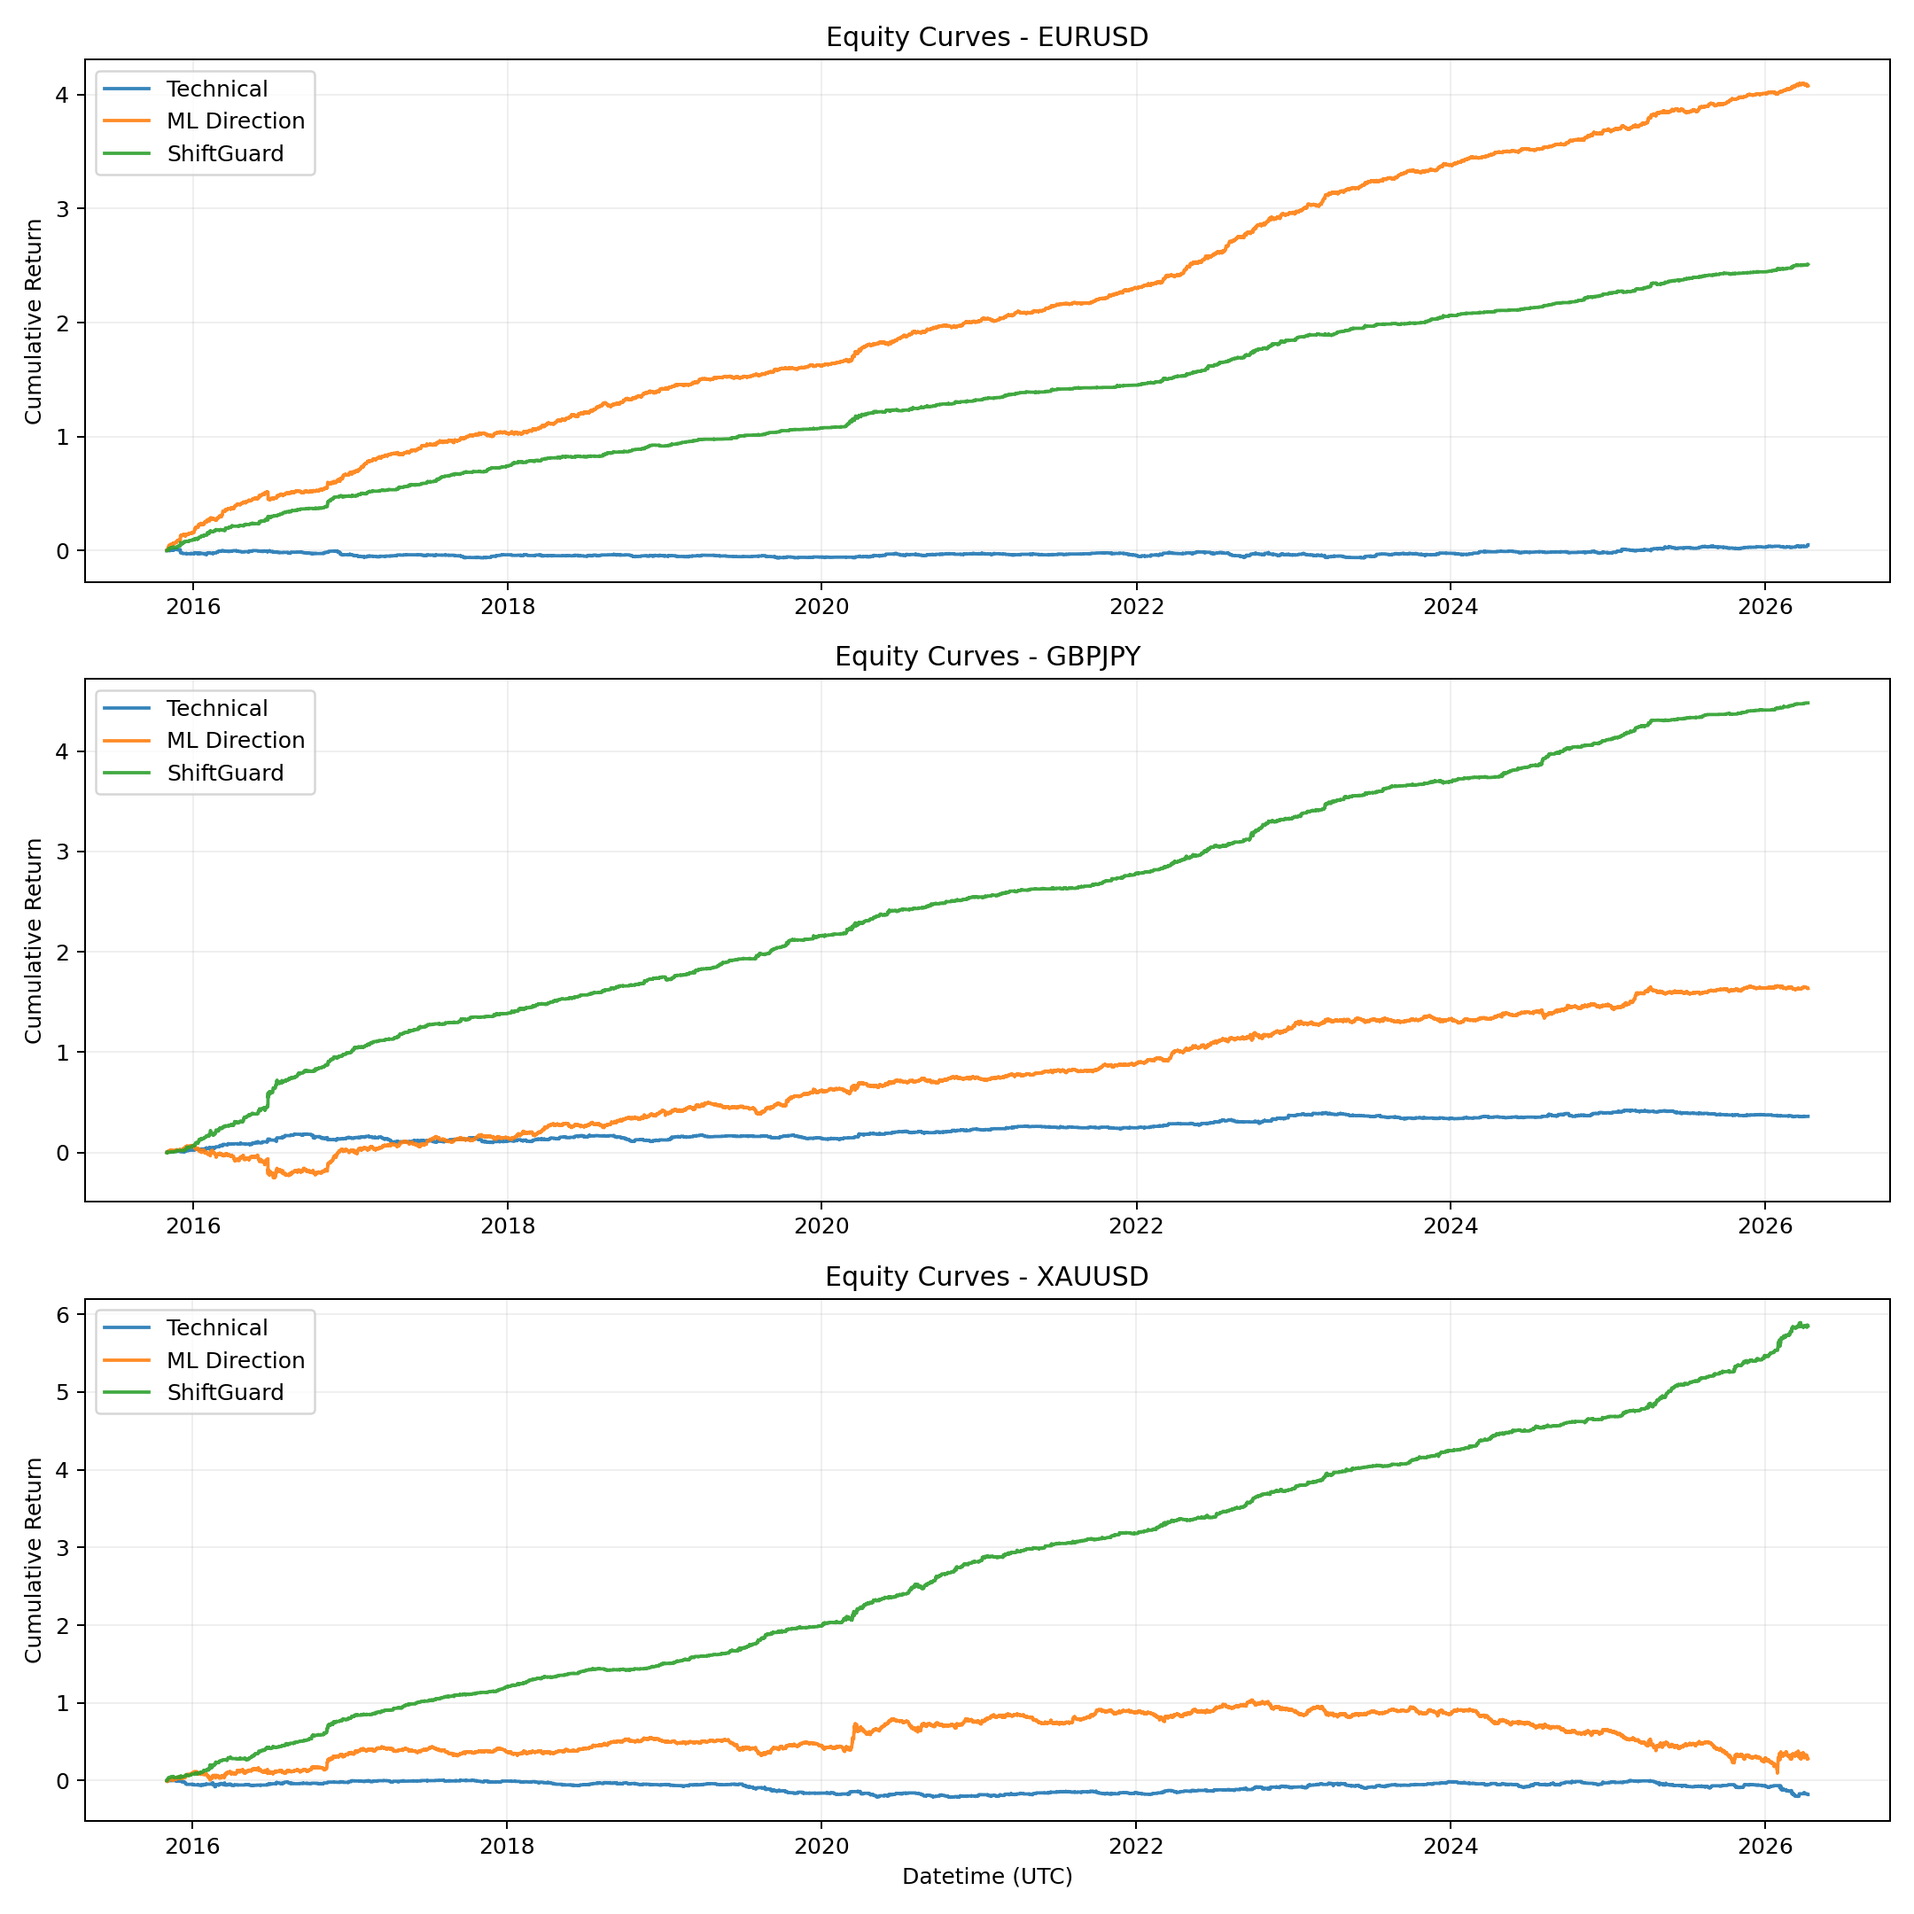
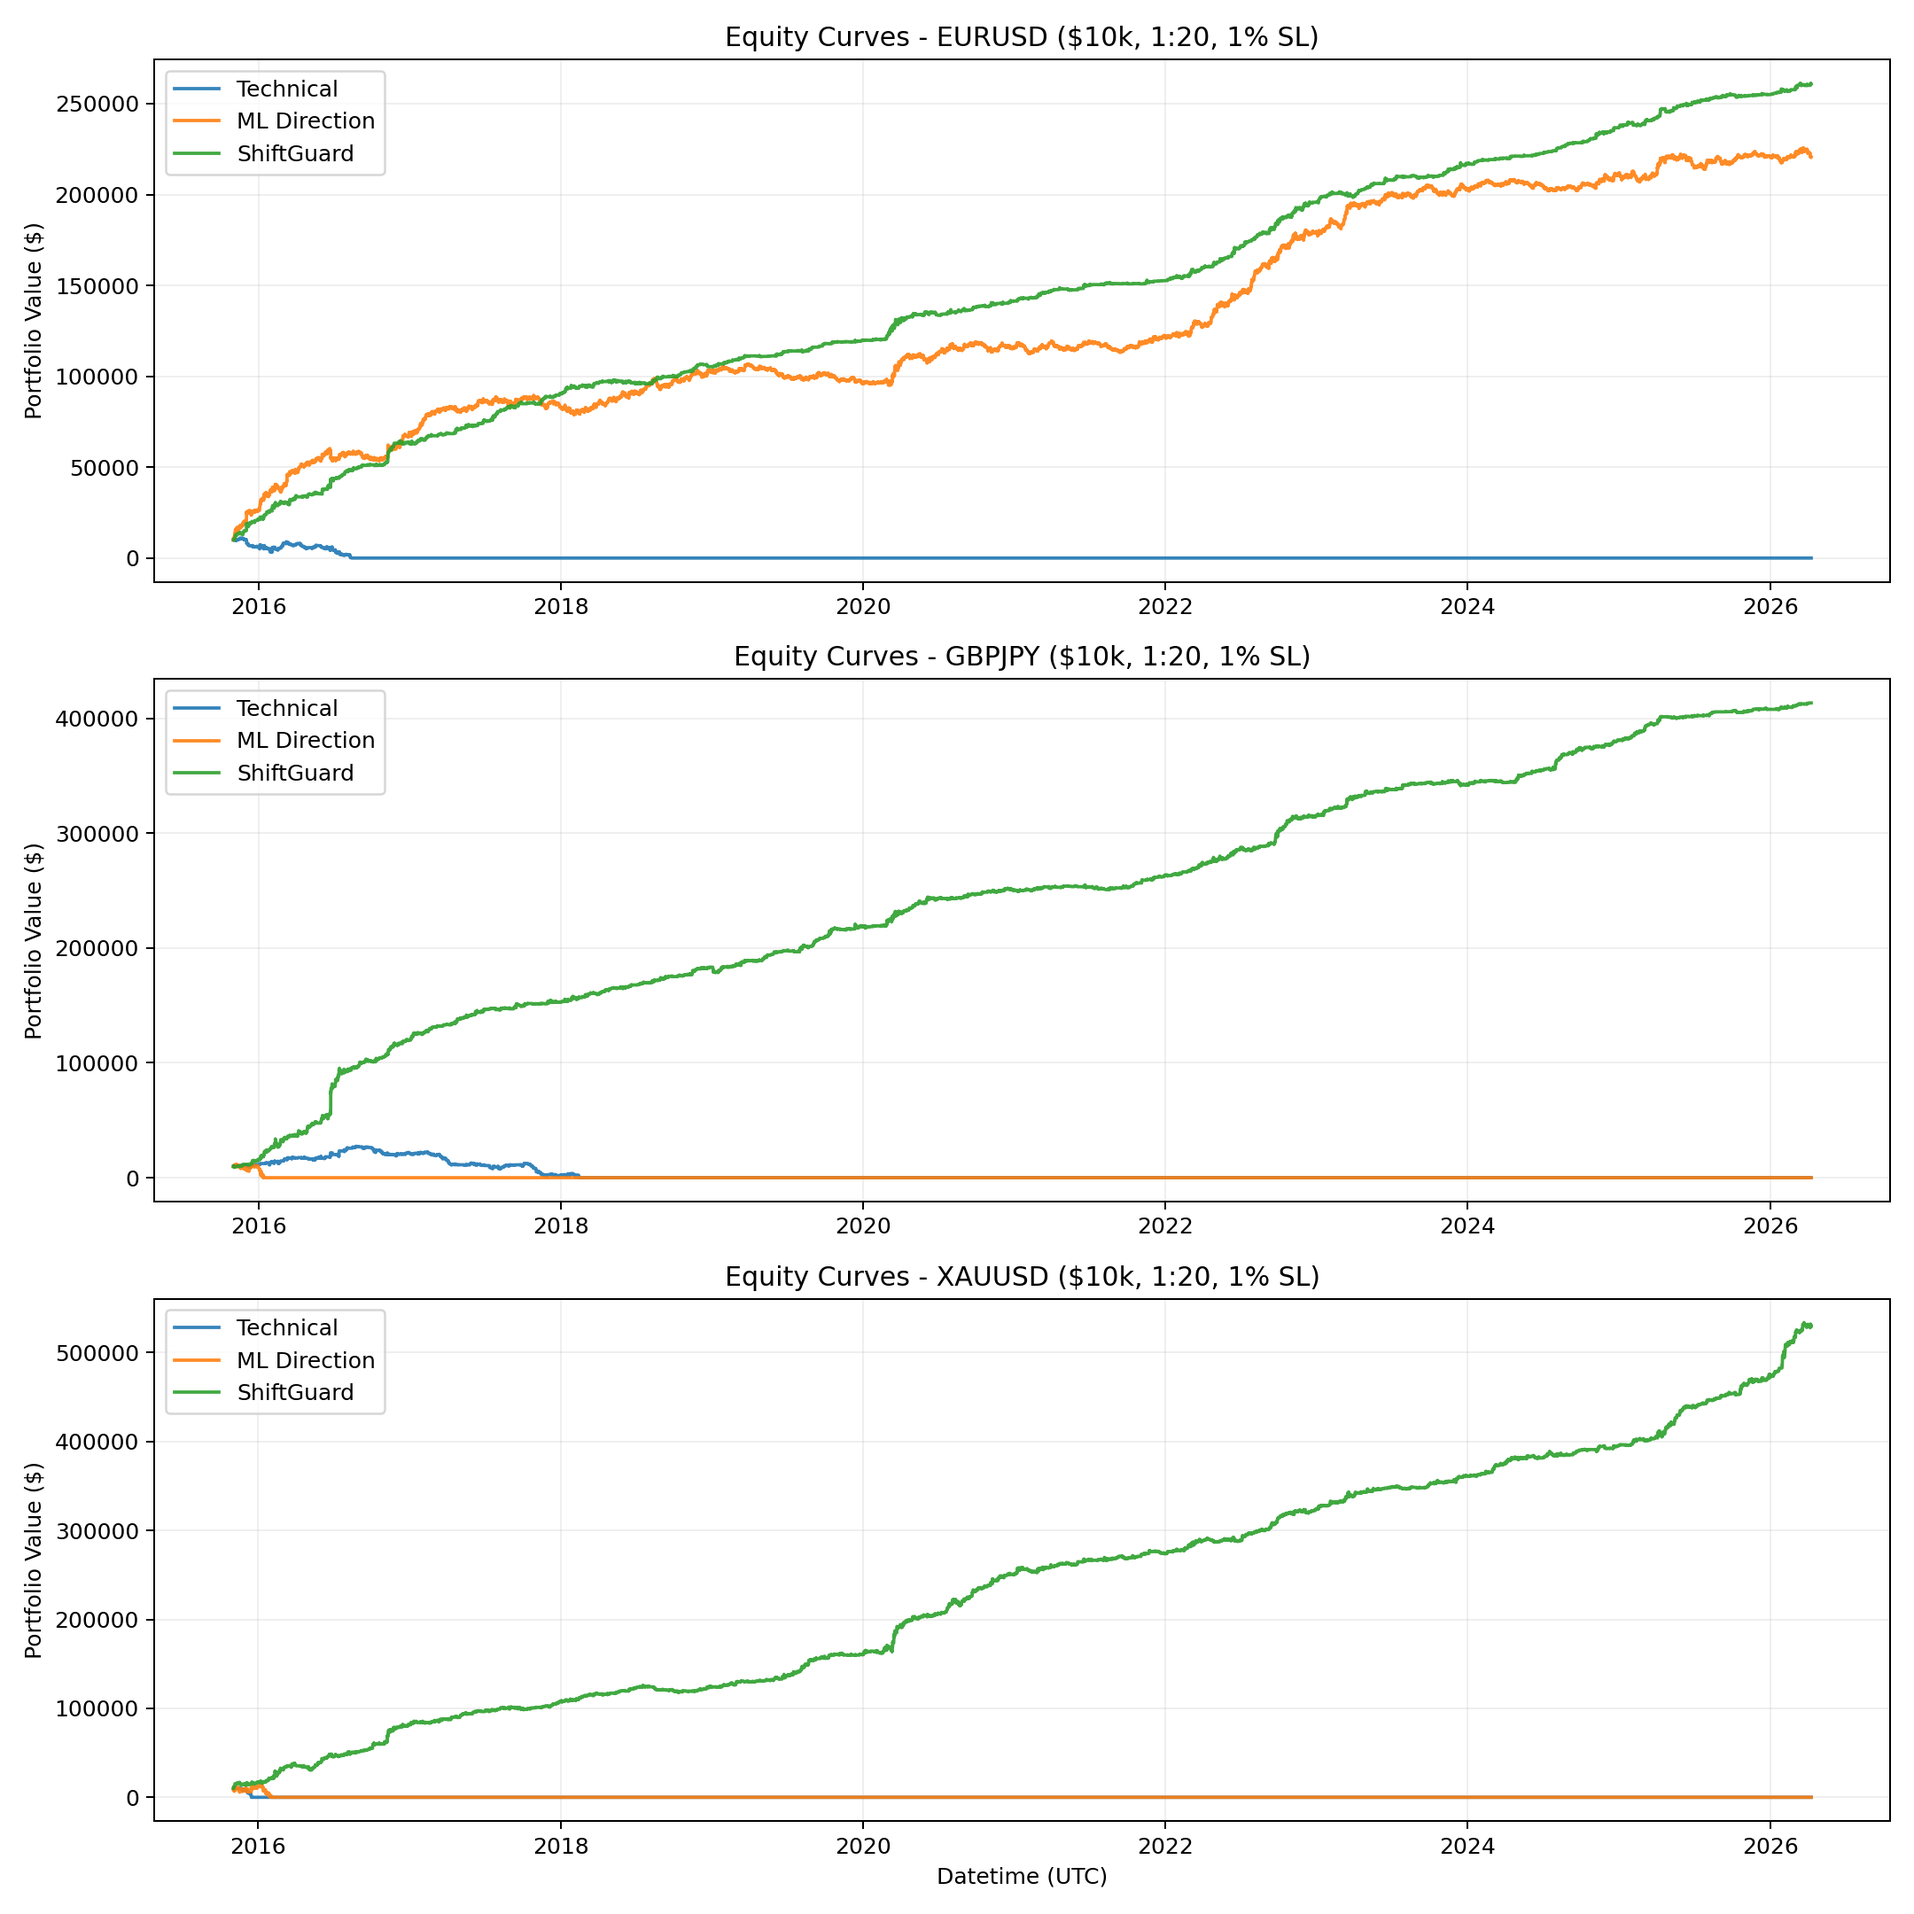
Fix dashboard equity curve simulation

diff --git a/src/dashboard/app.py b/src/dashboard/app.py
@@ -42,6 +42,90 @@ def load_json(rel_path):
     return {}
 
 
+SPREAD_MAP = {'EURUSD': 0.00010, 'GBPJPY': 0.00020, 'XAUUSD': 0.00030}
+COMMISSION_COST = 0.00003
+SLIPPAGE_COST = 0.00002
+SWAP_COST = 0.000005
+TAX_RATE = 0.30
+
+
+def strategy_net_returns(
+    df: pd.DataFrame,
+    signal_col: str,
+    pair_name: str,
+    leverage: float,
+    stop_loss_pct: float,
+) -> pd.Series:
+    """Per-bar leveraged net return after stop-loss and trading costs."""
+    if df.empty:
+        return pd.Series(dtype=float)
+
+    signals = df[signal_col].fillna(0).astype(float)
+    actual_returns = df['actual_return'].fillna(0).astype(float)
+    active = signals != 0
+    net = pd.Series(0.0, index=df.index, dtype=float)
+    if not active.any():
+        return net
+
+    leveraged = signals[active] * actual_returns[active] * leverage
+    stop_loss = (stop_loss_pct / 100) * leverage
+    capped = leveraged.clip(lower=-stop_loss)
+    cost_per_trade = (
+        SPREAD_MAP.get(pair_name, 0.00020) + COMMISSION_COST + SLIPPAGE_COST + SWAP_COST
+    ) * leverage
+    net.loc[active] = capped - cost_per_trade
+    return net
+
+
+def summarize_pnl(
+    df: pd.DataFrame,
+    signal_col: str,
+    pair_name: str,
+    capital: float,
+    leverage: float,
+    stop_loss_pct: float,
+) -> dict[str, float]:
+    net = strategy_net_returns(df, signal_col, pair_name, leverage, stop_loss_pct)
+    active = df[signal_col].fillna(0).astype(float) != 0
+    trades = int(active.sum())
+    if trades == 0:
+        return {'trades': 0, 'wr': 0, 'after_tax': 0}
+
+    pre_tax_profit = capital * net.cumsum()
+    running_tax = pre_tax_profit.clip(lower=0) * TAX_RATE
+    equity = (capital + pre_tax_profit - running_tax).clip(lower=0)
+    blown = equity <= 0
+    if blown.any():
+        first_blow_index = blown.idxmax()
+        equity.loc[first_blow_index:] = 0
+    after_tax = float(equity.iloc[-1] - capital)
+    return {
+        'trades': trades,
+        'wr': float((net.loc[active] > 0).mean() * 100),
+        'after_tax': after_tax,
+    }
+
+
+def equity_curve(
+    df: pd.DataFrame,
+    signal_col: str,
+    pair_name: str,
+    capital: float,
+    leverage: float,
+    stop_loss_pct: float,
+) -> pd.Series:
+    net = strategy_net_returns(df, signal_col, pair_name, leverage, stop_loss_pct)
+    pre_tax_profit = capital * net.cumsum()
+    running_tax = pre_tax_profit.clip(lower=0) * TAX_RATE
+    equity = (capital + pre_tax_profit - running_tax).clip(lower=0)
+
+    blown = equity <= 0
+    if blown.any():
+        first_blow_index = blown.idxmax()
+        equity.loc[first_blow_index:] = 0
+    return equity
+
+
 # ── Page Config ──────────────────────────────────────────────────────────────
 st.set_page_config(page_title="ShiftGuard", layout="wide")
 
@@ -352,6 +436,7 @@ with st.sidebar:
 trades = load_csv(f'results/winrate/{pair}_winrate_trades.csv')
 if not trades.empty:
     trades['datetime_utc'] = pd.to_datetime(trades['datetime_utc'])
+    trades = trades.sort_values('datetime_utc').reset_index(drop=True)
 
 price = load_csv(f'data/raw/price/{pair}_4h.csv')
 if not price.empty:
@@ -406,7 +491,7 @@ with tab1:
         overview_end = trades['datetime_utc'].max()
         overview_start = overview_end - pd.DateOffset(months=3)
         ov_chunk = trades[(trades['datetime_utc'] >= overview_start) & (trades['datetime_utc'] <= overview_end)]
-        spread_map = {'EURUSD': 0.00010, 'GBPJPY': 0.00020, 'XAUUSD': 0.00030}
+        overview_sl_pct = {'EURUSD': 0.5, 'GBPJPY': 0.75, 'XAUUSD': 1.0}.get(pair, 1.0)
 
         strategies = {}
         for sname, col in [('Technical (RSI/MACD)', 'tech_signal'),
@@ -425,26 +510,11 @@ with tab1:
             else:
                 wr, total_ret, n = 0, 0, 0
 
-            # 1-year realistic P&L
-            ov_s = ov_chunk[col].values
-            ov_r = ov_chunk['actual_return'].values
-            ov_mask = ov_s != 0
-            ov_nt = int(ov_mask.sum())
-            if ov_nt > 0:
-                ov_raw = ov_s[ov_mask] * ov_r[ov_mask]
-                ov_lp = ov_raw * overview_lev
-                ov_sl = {'EURUSD': 0.005, 'GBPJPY': 0.0075, 'XAUUSD': 0.01}.get(pair, 0.01)
-                ov_slv = ov_sl * overview_lev
-                ov_capped = np.where(ov_lp < -ov_slv, -ov_slv, ov_lp)
-                ov_cpt = (spread_map.get(pair, 0.0002) + 0.00003 + 0.00002 + 0.000005) * overview_lev
-                ov_gross = overview_capital * ov_capped.sum()
-                ov_costs = overview_capital * ov_cpt * ov_nt
-                ov_pt = ov_gross - ov_costs
-                ov_tax = max(0, ov_pt * 0.30)
-                ov_profit = ov_pt - ov_tax
-                ov_ret_pct = ov_profit / overview_capital * 100
-            else:
-                ov_profit, ov_ret_pct = 0, 0
+            ov_summary = summarize_pnl(
+                ov_chunk, col, pair, overview_capital, overview_lev, overview_sl_pct
+            )
+            ov_profit = ov_summary['after_tax']
+            ov_ret_pct = ov_profit / overview_capital * 100 if overview_capital > 0 else 0
 
             strategies[sname] = {'wr': wr, 'n': n, 'total_ret': total_ret,
                                  'pct': n / len(trades) * 100,
@@ -480,7 +550,7 @@ with tab1:
                     <hr style="border-color: {BG_SURFACE}; margin: 12px 0;">
                     <p style="color: {p_color}; font-size: 1.4rem; margin: 0; font-weight: 700;">${profit:+,.0f}</p>
                     <p style="color: {p_color}; font-size: 0.9rem; margin: 4px 0 0 0;">{ret_pct:+.1f}% return</p>
-                    <p style="color: {TEXT_DIM}; font-size: 0.7rem; margin: 6px 0 0 0;">3-month, 1:20 leverage, {ov_sl*100:.1f}% SL, after costs & tax</p>
+                    <p style="color: {TEXT_DIM}; font-size: 0.7rem; margin: 6px 0 0 0;">3-month, 1:20 leverage, {overview_sl_pct:.1f}% SL, after costs & tax</p>
                 </div>
                 """, unsafe_allow_html=True)
 
@@ -522,44 +592,12 @@ with tab2:
         end_date = trades['datetime_utc'].max()
         start_date = end_date - pd.DateOffset(months=horizon_months)
 
-        spread_map = {'EURUSD': 0.00010, 'GBPJPY': 0.00020, 'XAUUSD': 0.00030}
-        commission = 0.00003
-        slippage_cost = 0.00002
-        swap_cost = 0.000005
-        sl = sl_pct / 100
-        tax_rate = 0.30
-
         chunk = trades[(trades['datetime_utc'] >= start_date) & (trades['datetime_utc'] <= end_date)]
 
         results_pnl = {}
         for sname, col in [('Technical', 'tech_signal'), ('ML Direction', 'ml_signal'),
                            ('ShiftGuard', 'sg_signal')]:
-            s = chunk[col].values
-            r = chunk['actual_return'].values
-            tm = s != 0
-            nt = int(tm.sum())
-            if nt == 0:
-                results_pnl[sname] = {'trades': 0, 'wr': 0, 'after_tax': 0}
-                continue
-
-            raw = s[tm] * r[tm]
-            lp = raw * leverage
-            slv = sl * leverage
-            capped = np.where(lp < -slv, -slv, lp)
-            cpt = (spread_map.get(pair, 0.0002) + commission + slippage_cost + swap_cost) * leverage
-            net = capped - cpt
-
-            gross = capital * capped.sum()
-            costs = capital * cpt * nt
-            pt = gross - costs
-            tx = max(0, pt * tax_rate)
-            at = pt - tx
-
-            results_pnl[sname] = {
-                'trades': nt,
-                'wr': int((net > 0).sum()) / nt * 100,
-                'after_tax': at,
-            }
+            results_pnl[sname] = summarize_pnl(chunk, col, pair, capital, leverage, sl_pct)
 
         st.markdown(f"#### Results: {horizon_months}mo with 1:{leverage} leverage on {PAIR_LABELS[pair]}")
         cols = st.columns(3)
@@ -586,14 +624,13 @@ with tab2:
                 """, unsafe_allow_html=True)
 
         st.markdown("#### Equity Curve")
-        st.markdown("*Watch how each strategy grows (or destroys) your capital over time.*")
+        st.markdown("*Uses the same leverage, stop-loss, transaction-cost, and tax assumptions as the cards above.*")
 
         fig = go.Figure()
         for sname, col, color in [('Technical', 'tech_signal', '#555'),
                                    ('ML Direction', 'ml_signal', '#888'),
                                    ('ShiftGuard', 'sg_signal', ACCENT)]:
-            pnl = chunk[col] * chunk['actual_return']
-            equity = capital * (1 + (pnl * leverage).cumsum())
+            equity = equity_curve(chunk, col, pair, capital, leverage, sl_pct)
             width = 3 if 'ShiftGuard' in sname else 1
             fig.add_trace(go.Scatter(x=chunk['datetime_utc'], y=equity, name=sname,
                                      line=dict(color=color, width=width)))

diff --git a/src/analysis/generate_figures.py b/src/analysis/generate_figures.py
@@ -21,6 +21,15 @@ WINRATE_DIR = PROJECT_ROOT / 'results' / 'winrate'
 FIGURES_DIR = PROJECT_ROOT / 'results' / 'figures'
 FIGURES_DIR.mkdir(parents=True, exist_ok=True)
 
+DEFAULT_CAPITAL = 10000
+DEFAULT_LEVERAGE = 20
+DEFAULT_STOP_LOSS_PCT = 1.0
+SPREAD_MAP = {'EURUSD': 0.00010, 'GBPJPY': 0.00020, 'XAUUSD': 0.00030}
+COMMISSION_COST = 0.00003
+SLIPPAGE_COST = 0.00002
+SWAP_COST = 0.000005
+TAX_RATE = 0.30
+
 
 def load_trade_data(pairs: list[str]) -> dict[str, pd.DataFrame]:
     data: dict[str, pd.DataFrame] = {}
@@ -45,8 +54,46 @@ def load_winrate_overall() -> dict[str, dict[str, dict[str, float]]]:
         return json.load(f)
 
 
-def strategy_curve(df: pd.DataFrame, signal_col: str) -> pd.Series:
-    return (df[signal_col].astype(float) * df['actual_return'].astype(float)).cumsum()
+def strategy_net_returns(
+    df: pd.DataFrame,
+    signal_col: str,
+    pair: str,
+    leverage: float = DEFAULT_LEVERAGE,
+    stop_loss_pct: float = DEFAULT_STOP_LOSS_PCT,
+) -> pd.Series:
+    signals = df[signal_col].fillna(0).astype(float)
+    returns = df['actual_return'].fillna(0).astype(float)
+    active = signals != 0
+    net = pd.Series(0.0, index=df.index, dtype=float)
+    if not active.any():
+        return net
+
+    leveraged = signals[active] * returns[active] * leverage
+    stop_loss = (stop_loss_pct / 100) * leverage
+    capped = leveraged.clip(lower=-stop_loss)
+    cost_per_trade = (
+        SPREAD_MAP.get(pair, 0.00020) + COMMISSION_COST + SLIPPAGE_COST + SWAP_COST
+    ) * leverage
+    net.loc[active] = capped - cost_per_trade
+    return net
+
+
+def strategy_equity_curve(
+    df: pd.DataFrame,
+    signal_col: str,
+    pair: str,
+    capital: float = DEFAULT_CAPITAL,
+) -> pd.Series:
+    net = strategy_net_returns(df, signal_col, pair)
+    pre_tax_profit = capital * net.cumsum()
+    running_tax = pre_tax_profit.clip(lower=0) * TAX_RATE
+    equity = (capital + pre_tax_profit - running_tax).clip(lower=0)
+
+    blown = equity <= 0
+    if blown.any():
+        first_blow_index = blown.idxmax()
+        equity.loc[first_blow_index:] = 0
+    return equity
 
 
 def compute_statistical_tests(data: dict[str, pd.DataFrame]) -> dict[str, dict[str, float | int | str]]:
@@ -138,11 +185,11 @@ def plot_equity_curves(data: dict[str, pd.DataFrame], pairs: list[str]) -> None:
 
     for ax, pair in zip(axes, pairs):
         df = data[pair]
-        ax.plot(df['datetime_utc'], strategy_curve(df, 'tech_signal'), label='Technical', alpha=0.9)
-        ax.plot(df['datetime_utc'], strategy_curve(df, 'ml_signal'), label='ML Direction', alpha=0.9)
-        ax.plot(df['datetime_utc'], strategy_curve(df, 'sg_signal'), label='ShiftGuard', alpha=0.9)
-        ax.set_title(f'Equity Curves - {pair}')
-        ax.set_ylabel('Cumulative Return')
+        ax.plot(df['datetime_utc'], strategy_equity_curve(df, 'tech_signal', pair), label='Technical', alpha=0.9)
+        ax.plot(df['datetime_utc'], strategy_equity_curve(df, 'ml_signal', pair), label='ML Direction', alpha=0.9)
+        ax.plot(df['datetime_utc'], strategy_equity_curve(df, 'sg_signal', pair), label='ShiftGuard', alpha=0.9)
+        ax.set_title(f'Equity Curves - {pair} ($10k, 1:20, 1% SL)')
+        ax.set_ylabel('Portfolio Value ($)')
         ax.grid(alpha=0.2)
         ax.legend()
 
